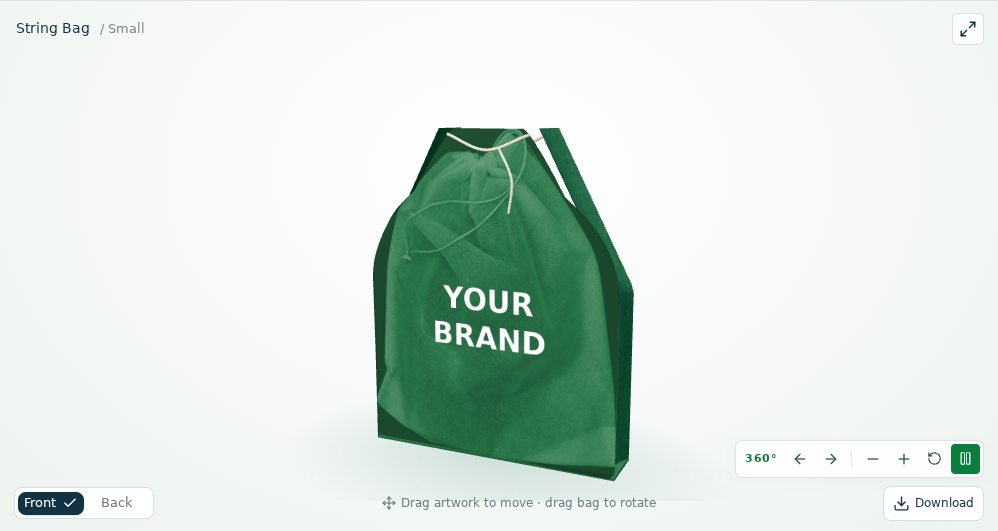
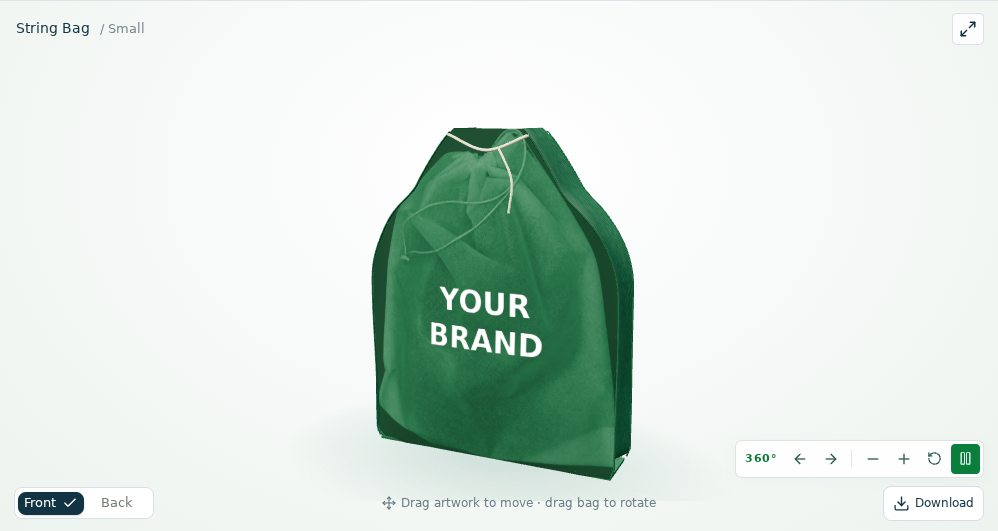
Update Site source

diff --git a/lib/studio-scene.ts b/lib/studio-scene.ts
@@ -99,6 +99,9 @@ export function createStudioScene(
   const fill = new THREE.DirectionalLight(0xd6e7ef, 1.65);
   fill.position.set(5, 3, -4);
   scene.add(fill);
+  const rearKey = new THREE.DirectionalLight(0xfff8ec, 2.15);
+  rearKey.position.set(-3, 5, -7);
+  scene.add(rearKey);
   const faceFill = new THREE.DirectionalLight(0xffffff, 0.45);
   faceFill.position.set(3, 1, 7);
   scene.add(faceFill);
@@ -249,6 +252,9 @@ export function createStudioScene(
   const photoCanvas = document.createElement("canvas");
   photoCanvas.width = photoCanvas.height = 1440;
   const photoTexture = new THREE.CanvasTexture(photoCanvas);
+  const rearCanvas = document.createElement("canvas");
+  rearCanvas.width = rearCanvas.height = 1440;
+  const rearTexture = new THREE.CanvasTexture(rearCanvas);
   const clothCanvas = document.createElement("canvas");
   clothCanvas.width = clothCanvas.height = 256;
   const clothTexture = new THREE.CanvasTexture(clothCanvas);
@@ -265,6 +271,9 @@ export function createStudioScene(
     photoTexture.anisotropy = Math.min(4, renderer.capabilities.getMaxAnisotropy());
     textures.add(photoTexture);
   }
+  rearTexture.colorSpace = THREE.SRGBColorSpace;
+  rearTexture.anisotropy = Math.min(4, renderer.capabilities.getMaxAnisotropy());
+  textures.add(rearTexture);
   const photographedFabric = new THREE.MeshStandardMaterial({
     map: photoTexture,
     bumpMap: bump,
@@ -274,15 +283,39 @@ export function createStudioScene(
     side: THREE.FrontSide,
   });
   materials.add(photographedFabric);
+  const rearFabric = photographedFabric.clone();
+  rearFabric.map = rearTexture;
+  materials.add(rearFabric);
   if (spec.handles && !photoShell) {
-    // The narrow dark opening and rolled upper lip make the bag read as an
-    // open, sewn object instead of two flat printed planes.
-    const mouth = add(
-      new THREE.PlaneGeometry(width - 0.045, depth - 0.035),
+    // A recessed floor and four inner walls leave a visible opening when the
+    // customer tilts the bag, rather than a solid lid across the top.
+    // Gussets fold inward near the mouth, so the cavity walls sit inside
+    // that fold instead of showing as dark squares on the outside.
+    const openingWidth = width - 0.42;
+    const openingDepth = depth - 0.14;
+    const cavity = add(
+      new THREE.BoxGeometry(openingWidth, 0.012, openingDepth),
       innerMat,
     );
-    mouth.rotation.x = -Math.PI / 2;
-    mouth.position.y = top - 0.025;
+    cavity.position.y = top - 0.27;
+    for (const face of [-1, 1]) {
+      const wall = add(
+        new THREE.BoxGeometry(openingWidth, 0.27, 0.014),
+        innerMat,
+      );
+      wall.position.set(0, top - 0.135, face * openingDepth / 2);
+      const lip = add(new THREE.BoxGeometry(width, 0.025, 0.052));
+      lip.position.set(0, top - 0.006, face * (depth / 2 - 0.026));
+    }
+    for (const side of [-1, 1]) {
+      const wall = add(
+        new THREE.BoxGeometry(0.014, 0.27, openingDepth),
+        innerMat,
+      );
+      wall.position.set(side * openingWidth / 2, top - 0.135, 0);
+      const lip = add(new THREE.BoxGeometry(0.052, 0.025, depth));
+      lip.position.set(side * (half - 0.026), top - 0.006, 0);
+    }
     for (const face of [-1, 1])
       seam(
         [
@@ -293,9 +326,48 @@ export function createStudioScene(
         0.013,
       );
   }
+  function subdivideShape(geometry: THREE.BufferGeometry, divisions = 10) {
+    const source = geometry.index ? geometry.toNonIndexed() : geometry;
+    const original = source.getAttribute("position");
+    const vertices: number[] = [];
+    const indices: number[] = [];
+    const keys = new Map<string, number>();
+    function vertex(x: number, y: number) {
+      const key = `${x.toFixed(5)}:${y.toFixed(5)}`;
+      const found = keys.get(key);
+      if (found !== undefined) return found;
+      const index = vertices.length / 3;
+      vertices.push(x, y, 0);
+      keys.set(key, index);
+      return index;
+    }
+    for (let triangle = 0; triangle < original.count; triangle += 3) {
+      const ax = original.getX(triangle), ay = original.getY(triangle);
+      const bx = original.getX(triangle + 1), by = original.getY(triangle + 1);
+      const cx = original.getX(triangle + 2), cy = original.getY(triangle + 2);
+      const point = (i: number, j: number) =>
+        vertex(
+          ax + ((bx - ax) * i + (cx - ax) * j) / divisions,
+          ay + ((by - ay) * i + (cy - ay) * j) / divisions,
+        );
+      for (let i = 0; i < divisions; i++)
+        for (let j = 0; j < divisions - i; j++) {
+          const a = point(i, j), b = point(i + 1, j), c = point(i, j + 1);
+          indices.push(a, b, c);
+          if (j < divisions - i - 1)
+            indices.push(b, point(i + 1, j + 1), c);
+        }
+    }
+    if (source !== geometry) source.dispose();
+    geometry.dispose();
+    const result = new THREE.BufferGeometry();
+    result.setAttribute("position", new THREE.Float32BufferAttribute(vertices, 3));
+    result.setIndex(indices);
+    return result;
+  }
   function faceGeometry(forPhoto = false) {
     const geometry = shaped
-      ? new THREE.ShapeGeometry(outline(), 40)
+      ? subdivideShape(new THREE.ShapeGeometry(outline(), 40))
       : new THREE.PlaneGeometry(width, top - bottom, 56, 56);
     const pos = geometry.attributes.position;
     const uv = new Float32Array(pos.count * 2);
@@ -325,14 +397,14 @@ export function createStudioScene(
       ? add(
           photoFaceGeometry!,
           new THREE.MeshBasicMaterial({
-            map: photoTexture,
+            map: face > 0 ? photoTexture : rearTexture,
             transparent: true,
             alphaTest: 0.08,
             toneMapped: false,
             side: THREE.FrontSide,
           }),
         )
-      : add(faceGeometry(true), photographedFabric);
+      : add(faceGeometry(true), face > 0 ? photographedFabric : rearFabric);
     if (photoShell) panel.position.set(0, photoPlaneCenterY, face * photoFaceZ);
     if (face < 0) panel.rotation.y = Math.PI;
     faceSides.set(panel, face > 0 ? "front" : "back");
@@ -439,6 +511,21 @@ export function createStudioScene(
     }
   }
   let lastPhoto: HTMLCanvasElement | null = null;
+  const outerContour = shaped ? outline().extractPoints(40).shape : [];
+  function outerRightAt(y: number) {
+    if (!shaped) return Math.abs(xAt(half, y));
+    let right = 0;
+    for (let i = 0; i < outerContour.length; i++) {
+      const a = outerContour[i], b = outerContour[(i + 1) % outerContour.length];
+      if (Math.abs(a.y - b.y) < 0.00001) {
+        if (Math.abs(y - a.y) < 0.00001) right = Math.max(right, a.x, b.x);
+      } else if (y >= Math.min(a.y, b.y) && y <= Math.max(a.y, b.y)) {
+        const t = (y - a.y) / (b.y - a.y);
+        right = Math.max(right, a.x + (b.x - a.x) * t);
+      }
+    }
+    return Math.abs(xAt(right || half, y));
+  }
   // Side gussets have their own mesh; they carry the fabric crop around the bag.
   const sideTop = product === "t-shirt-bag" ? 0.72 : top;
   if (!photoShell) for (const side of [-1, 1]) {
@@ -449,26 +536,57 @@ export function createStudioScene(
         y = pos.getY(i) + (sideTop + bottom) / 2;
       const fold = Math.sin((z / depth + 0.5) * Math.PI) *
         (product === "box-bag" ? 0.14 : product === "t-shirt-bag" ? 0.16 : 0.075);
+      const outerX = outerRightAt(y);
+      const edgeZ = zAt(outerX, y);
+      const seamOverlap =
+        product === "string-bag" ? 0.045 : product === "t-shirt-bag" ? 0.032 : 0;
       pos.setXYZ(
         i,
-        side * (
-          (product === "string-bag"
-            ? half * (1 - 0.6 * Math.min(1, Math.max(0, (y - 0.18) / (top - 0.18))))
-            : Math.abs(xAt(half, y))) -
-          fold -
-          (photoShell ? 0.22 : 0)
-        ),
+        side * (outerX - fold),
         y,
-        z,
+        (z / (depth / 2)) * (edgeZ + seamOverlap),
       );
+    }
+    // PlaneGeometry faces -X after mapping its horizontal coordinate to Z.
+    // Flip the right gusset so both exterior surfaces use outward normals.
+    if (side === 1) {
+      const index = g.getIndex()!;
+      for (let i = 0; i < index.count; i += 3) {
+        const b = index.getX(i + 1);
+        index.setX(i + 1, index.getX(i + 2));
+        index.setX(i + 2, b);
+      }
     }
     g.computeVertexNormals();
     add(g);
   }
   if (!photoShell) {
-    const base = add(new THREE.BoxGeometry(width - 0.01, 0.025, depth));
+    const baseWidth = shaped ? 2 * outerRightAt(bottom + 0.025) : width - 0.01;
+    const base = add(new THREE.BoxGeometry(baseWidth, 0.025, depth));
     base.position.y = bottom + 0.012;
   }
+  if (product === "d-cut-bag" && !photoShell)
+    for (const face of [-1, 1]) {
+      const grip: THREE.Vector3[] = [];
+      for (let i = 0; i <= 48; i++) {
+        const a = (i / 48) * Math.PI * 2;
+        const x = 0.43 * Math.cos(a);
+        const y = top - 0.4 + 0.14 * Math.sin(a);
+        grip.push(new THREE.Vector3(xAt(x, y), y, face * (zAt(x, y) + 0.01)));
+      }
+      seam(grip, 0.009);
+    }
+  if ((product === "t-shirt-bag" || product === "string-bag") && !photoShell)
+    for (const face of [-1, 1])
+      for (const side of [-1, 1]) {
+        const edge: THREE.Vector3[] = [];
+        for (let i = 0; i <= 36; i++) {
+          const y = bottom + 0.035 + ((sideTop - bottom - 0.065) * i) / 36;
+          const x = side * outerRightAt(y);
+          edge.push(new THREE.Vector3(x, y, face * (zAt(x, y) + 0.012)));
+        }
+        seam(edge, 0.008);
+      }
   if (product === "box-bag" && !photoShell) {
     for (const face of [-1, 1])
       for (const side of [-1, 1])
@@ -885,7 +1003,8 @@ export function createStudioScene(
       innerMat.color.set(hex).multiplyScalar(0.48);
       if (photo && photo !== lastPhoto) {
           // Crop the actual photographed front panel into the UV space of the
-          // volumetric face. The same source supplies the side fabric weave.
+          // volumetric face. The side and rear use unprinted fabric from the
+          // same client sample; no clean rear product photo was supplied.
           const crop: Record<string, [number, number, number, number]> = {
             "box-bag": [0.33, 0.31, 0.81, 0.93],
             "handle-bag": [0.30, 0.43, 0.72, 0.93],
@@ -933,6 +1052,38 @@ export function createStudioScene(
               photoCanvas.height,
             );
           }
+          const rearCrop: Record<string, [number, number, number, number]> = {
+            "box-bag": [0.43, 0.51, 0.68, 0.80],
+            "handle-bag": [0.39, 0.57, 0.64, 0.83],
+            "t-shirt-bag": [0.44, 0.45, 0.64, 0.78],
+            "d-cut-bag": [0.31, 0.38, 0.69, 0.81],
+            "string-bag": [0.32, 0.34, 0.68, 0.77],
+          };
+          const [rl, rt, rr, rb] = rearCrop[product] || rearCrop["box-bag"];
+          const rear = rearCanvas.getContext("2d")!;
+          rear.clearRect(0, 0, rearCanvas.width, rearCanvas.height);
+          rear.fillStyle = ground;
+          rear.fillRect(0, 0, rearCanvas.width, rearCanvas.height);
+          rear.drawImage(
+            photo,
+            rl * photo.width,
+            rt * photo.height,
+            (rr - rl) * photo.width,
+            (rb - rt) * photo.height,
+            0,
+            0,
+            rearCanvas.width,
+            rearCanvas.height,
+          );
+          // A little edge falloff suggests the rear panel's turn into the
+          // gussets without baking front-facing folds into the opposite side.
+          const falloff = rear.createLinearGradient(0, 0, rearCanvas.width, 0);
+          falloff.addColorStop(0, "#0000001c");
+          falloff.addColorStop(0.12, "#00000000");
+          falloff.addColorStop(0.88, "#00000000");
+          falloff.addColorStop(1, "#00000020");
+          rear.fillStyle = falloff;
+          rear.fillRect(0, 0, rearCanvas.width, rearCanvas.height);
           const cloth = clothCanvas.getContext("2d")!;
           cloth.clearRect(0, 0, 256, 256);
           cloth.fillStyle = ground;
@@ -965,6 +1116,7 @@ export function createStudioScene(
           fabric.map = clothTexture;
           fabric.needsUpdate = true;
         photoTexture.needsUpdate = true;
+        rearTexture.needsUpdate = true;
         lastPhoto = photo;
       }
       [front, back].forEach((artwork, i) => {

diff --git a/docs/DESIGN-HANDOFF.md b/docs/DESIGN-HANDOFF.md
@@ -51,7 +51,7 @@ The intended balance is manufacturer first, products and customization next. Do 
 
 Lead with “Build your bag.” Keep the working surface compact: a 30px desktop title, 26px mobile title, 360px controls column (330/305px on smaller desktops/tablets), 38px fields and short shape tiles. Use the scoped `.studio-compact` rules at the end of `app/brand-refresh.css`; the older `.studio-v4` rules are the compatibility baseline. Cards stack below 700px, and the mobile preview is 310px tall. Desktop keeps the quote action visible while long editing controls scroll inside their panel. Mobile controls and the quote action stay in normal document flow so nothing covers the form. The designer has a short footer instead of the site's large promotional invitation.
 
-**3D view** opens by default with a visible 360° control and slow automatic rotation of an untouched default design. Interaction stops the spin so buyers can place artwork without the bag moving. The view uses photographed front/back surfaces and shallow silhouette-matched side geometry; it is a visual approximation, not a scanned product model. All five families retain independent front/back logo and text, direct logo/text selection and dragging, empty-space drag rotation, keyboard arrows, rotation buttons, zoom and reset. Reduced-motion users start with a still view. Fullscreen keeps the same controls; devices without WebGL receive the flat preview. The natural T-Shirt photo is used directly without recoloring; natural Handle and Box photos also keep their source fabric detail. Other selected colors remain visual approximations. A compact strip below the stage opens three real client-supplied photos of the selected bag family for material and construction reference.
+**3D view** opens by default with a visible 360° control and slow automatic rotation of an untouched default design. Interaction stops the spin so buyers can place artwork without the bag moving. The five volumetric models use photographed fabric on the front, a distinct rear surface made from unprinted fabric in the same client photo, and separately modelled gussets, openings and closures. No clean rear-view photo was supplied, so the back is a visual reconstruction rather than a scanned product model. All five families retain independent front/back logo and text, direct logo/text selection and dragging, empty-space drag rotation, keyboard arrows, rotation buttons, zoom and reset. Reduced-motion users start with a still view. Fullscreen keeps the same controls; devices without WebGL receive the flat preview. The natural T-Shirt photo is used directly without recoloring; natural Handle and Box photos also keep their source fabric detail. Other selected colors remain visual approximations. A compact strip below the stage opens three real client-supplied photos of the selected bag family for material and construction reference.
 
 The bag tab contains size, color, material, print-color count and an optional custom-dimension request. “Next: add your design” opens the artwork tab. Logo and Text select independent layers and show only the selected layer's controls. Logo includes upload, thumbnail/name and optional white-background cleanup; Text includes a short text field, three typefaces, alignment and ink color. Artwork size is immediately available; coordinates and rotation sit inside the expandable **Position & rotation** section. Undo/redo, Center artwork, remove and copy-to-other-side remain available.
 
@@ -98,7 +98,7 @@ Mobile is a primary review surface. Keep 44px main actions/menu rows, readable 1
 | `docs/asset-sources.json`, `docs/client-media-2026-09-28.json` | Original asset sources and newly supplied archive selection |
 | `docs/source-catalog.json` | Original catalog snapshot with 15 variants |
 
-The designer offers rotatable 3D family models with photographed fabric on the front/back and matching cloth texture on modelled gussets, bases and handles, alongside flat artwork previews. The models are built from one supplied photo per family, so unseen surfaces are reconstructed, and geometry does not change physical proportions for each catalogue size. Neither view is an approved dieline, production CAD, color sample or guarantee of printable area. Production work should substitute approved per-variant templates or approved 3D assets. Preview downloads carry a concept label.
+The designer offers rotatable 3D family models with photographed front fabric, a reconstructed rear fabric surface and matching cloth texture on modelled gussets, bases and handles, alongside flat artwork previews. The models are built from one supplied photo per family, so unseen surfaces are reconstructed, and geometry does not change physical proportions for each catalogue size. Neither view is an approved dieline, production CAD, color sample or guarantee of printable area. Production work should substitute approved per-variant templates or approved 3D assets. Preview downloads carry a concept label.
 
 The 28 September 2026 client archive supplied 72 photos and 105 short portrait videos. Thirty-three original photographs, two video-frame posters and two short clips were curated for distinct placements across the site; the existing horizontal process film remains on the homepage. Kobags assets remain subject to their owner's rights. The archive is a handoff for this project; it does not grant trademark, photo or video rights for unrelated brands. Replace brand assets when using the architecture for another business.
 

diff --git a/docs/DEVELOPER-HANDOFF.md b/docs/DEVELOPER-HANDOFF.md
@@ -139,9 +139,9 @@ Use approved per-variant print templates, original-file storage, file validation
 
 ### Compact five-family 3D designer
 
-`components/studio-3d.tsx` lazy-loads `lib/studio-scene.ts` when the 3D view mounts. The 3D view opens by default. Each of the five families now has a front and back mesh, separate fabric-textured side gussets and base, and its own handle or closure geometry. The D-Cut and T-Shirt models have physical handle openings; the drawstring body narrows toward its closure. The front material uses a crop of the matching supplied product photograph, while a nearby fabric crop textures the sides and handles. Artwork is mapped to both curved face meshes. This is a rotatable, volumetric illustration based on a single photo per family, not a scanned object or production CAD. Catalogue size selection updates the specification, not approved physical geometry. The scene has no additional dependency beyond the existing Three.js install.
+`components/studio-3d.tsx` lazy-loads `lib/studio-scene.ts` when the 3D view mounts. The 3D view opens by default. Each of the five families has separate front and back meshes/materials, fabric-textured side gussets and base, and handle or closure geometry. D-Cut and T-Shirt have physical handle openings; the drawstring body narrows toward its closure. Shaped faces are tessellated before deformation so they bulge across the panel rather than only at the outline. Handle and Box have recessed mouths with inner walls and floor. The front material uses a crop of the matching supplied product photograph; the back uses a different unprinted crop with edge shading because no clean rear photos were supplied. A nearby fabric crop textures the sides and handles. Artwork is mapped to both curved face meshes. This is a rotatable, volumetric illustration based on a single photo per family, not a scanned object or production CAD. Catalogue size selection updates the specification, not approved physical geometry. The scene has no additional dependency beyond the existing Three.js install.
 
-`renderArtworkTexture` in `components/bag-preview.tsx` shares the artwork painter with the flat renderer. It returns a transparent 1024px canvas plus logical artwork bounds for each face, preserving independent text/logo placement, rotation, ink, alignment and image aspect ratios. `renderBlankBagTexture` supplies the colorized source photograph. The 3D scene crops its front fabric and a smaller cloth patch from that canvas; keep those crop coordinates in `lib/studio-scene.ts` aligned if replacing an asset. Natural T-Shirt uses `studio-real-t-shirt-natural.png` directly; natural Handle and Box retain their source photo colors. Other colors use the runtime tint and remain indicative. Revision tokens discard stale asynchronous results. Only a family change reconstructs the scene; editing updates material colors and existing textures. The established draft/RFQ/proof contracts and PNG exports are unchanged. Both 3D and the flat **Photo + artwork** view support direct placement. `docs/studio-real-photo-sources.json` maps each blank cutout to its source.
+`renderArtworkTexture` in `components/bag-preview.tsx` shares the artwork painter with the flat renderer. It returns a transparent 1024px canvas plus logical artwork bounds for each face, preserving independent text/logo placement, rotation, ink, alignment and image aspect ratios. `renderBlankBagTexture` supplies the colorized source photograph. The 3D scene crops its front panel, rear material sample and a smaller cloth patch from that canvas; keep all crop coordinates in `lib/studio-scene.ts` aligned if replacing an asset. Natural T-Shirt uses `studio-real-t-shirt-natural.png` directly; natural Handle and Box retain their source photo colors. Other colors use the runtime tint and remain indicative. Revision tokens discard stale asynchronous results. Only a family change reconstructs the scene; editing updates material colors and existing textures. The established draft/RFQ/proof contracts and PNG exports are unchanged. Both 3D and the flat **Photo + artwork** view support direct placement. `docs/studio-real-photo-sources.json` maps each blank cutout to its source.
 
 OrbitControls supports drag and keyboard rotation. Dedicated controls provide rotation, zoom, reset and spin. Front/back changes align the view. The untouched default bag starts a slow spin to show that the view rotates; selecting artwork, dragging, using a control, or entering editing mode stops it. Saved designs do not auto-spin, and reduced-motion users receive a still view. Pixel ratio is capped at 1.8; rendering settles after interaction and pauses offscreen or when the document is hidden. Cleanup disposes controls, geometry, materials, textures, observers, listeners and renderer. WebGL initialization/context failure exposes a usable flat fallback without discarding the draft.
 
